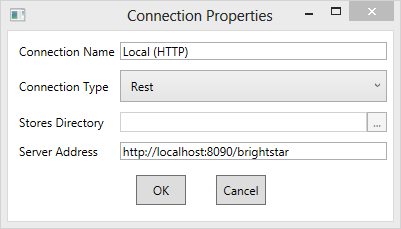
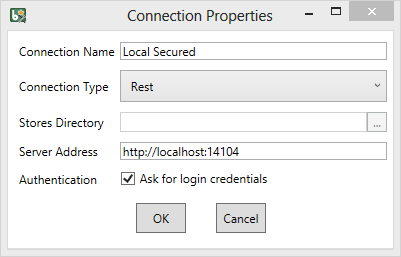
Added information about user credentials

diff --git a/doc/src/Using_Polaris.rst b/doc/src/Using_Polaris.rst
@@ -110,6 +110,10 @@ The fields of this dialog should be filled out as follows:
     Specify the full URL for the BrightstarDB service. For example, to connect to
     a BrightstarDB service running on the default port (8090) on the local machine
     you would enter ``http://localhost:8090/brightstar`` as the address.
+    
+  - **Authentication:** Check the box if the connection you are using requires
+    a user name and password. You will be prompted for this information after
+    the connection is added.
 
 When you select the Rest connection type from the 
 drop-down list, the dialog will automatically populate with the default 
@@ -123,7 +127,9 @@ displayed in a red area beneath the input fields.
 When you click OK, Polaris will attempt to contact the server using the 
 information you have provided, if contact is established then a list of all 
 stores hosted on that server will be retrieved and displayed under the server 
-name in the Server List area. If contact cannot be established for some 
+name in the Server List area. If you checked the box that indicates that the
+connection requires authentication, you will be prompted to enter your 
+user name and password in a separate dialog. If contact cannot be established for some 
 reason, an error dialog will display the details of the problem encountered.
 
 To remove a connection from the list, select the server name in the Server 
@@ -146,7 +152,36 @@ The connections you add to Polaris are stored in a configuration file under
 your local AppData folder and they will be automatically saved when you 
 add/remove a connection.
 
+Authentication
+==============
 
+Any REST connection to a BrightstarDB server can be configured to require
+authentication. When you configure a new connection in Polaris you can
+specify that the connection requires authentication information. This 
+information will be prompted for when you initally add the connection,
+but your user name and password is **NOT** stored in the configuration
+file. Instead, the next time you start Polaris you will see that connection
+shows an error in connecting (probably with a message saying 401 Authentication
+Required, which is the HTTP protocol message that Polaris receives from the
+server). In this case, simply right-click on the connection and select
+"Refresh" from the popup menu - you should then be prompted for your
+user name and password. If this does not happen, it probably means that
+the connection was added to Polaris without the Authentication box checked.
+
+To force authentication on a connection that does not currently require it,
+simply right-click on the connection, select "Edit" from the popup menu
+and check the Authentication box in the dialog displayed and click OK. You should
+then be prompted for your user name and password, and this update to the
+connection configuration will be stored for future sessions.
+
+If you want to authenticate as multiple different users, or if you want to
+have an authenticated connection and an unauthenticated connection to the
+same server, simply add the same connection details to Polaris multiple times.
+
+.. note::
+    At present it is not possible to associate a user name with a connection.
+    You will always be required to enter both your user name and password.
+    
 ****************
  Managing Stores
 ****************

diff --git a/doc/src/Connection_Strings.rst b/doc/src/Connection_Strings.rst
@@ -58,6 +58,21 @@ is used. This option is only used by the :ref:`Data_Object_Layer` and
 :ref:`Entity_Framework` and is currently not supported on connections
 of type *dotNetRDF*
 
+**UserName**: Specifies the user name to use for authenticating with the server.
+A connection string with this property must also have a **Password** property
+for authentication to take place.
+
+**Password**: Specifies the password to use for authenticating with the server.
+A connection string with this property must also have a **UserName** property
+for authentication to take place.
+
+.. note::
+    You should never store credentials in a connection string as plain text.
+    Instead your application should store the base connection string without
+    the UserName and Password properties. It should then prompt the user to enter their credentials
+    just before it creates the BrightstarDB client and append the UserName and Password
+    properties to the base connection string.
+    
 The following are examples of connection strings. Property value pairs are separated by ';' 
 and property names are case insensitive.::
 

diff --git a/doc/src/RDF_Client_API.rst b/doc/src/RDF_Client_API.rst
@@ -29,7 +29,7 @@ The following example shows how to create a new service client using a connectio
 
 For more information about connection strings, please read the :ref:`"Connection Strings" 
 topic <Connection_Strings>`
-
+                    
 
 Creating a Store
 ================
